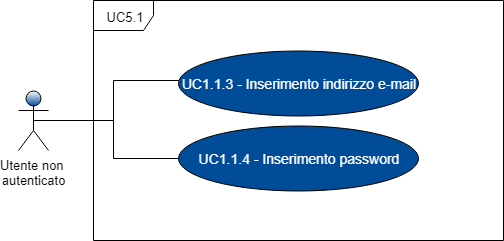
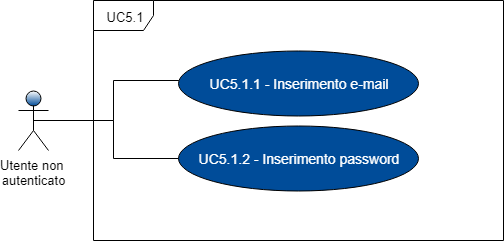
fix immagini e verificato UC11

Changed region(s): [[0.3571, 0.3195, 0.8333, 0.3776], [0.4762, 0.639, 0.506, 0.6971], [0.4167, 0.639, 0.4464, 0.6971]]

diff --git a/RR/Esterni/Analisi_dei_requisiti/res/sections/UC/UC11-Gestione-prenotazione.tex b/RR/Esterni/Analisi_dei_requisiti/res/sections/UC/UC11-Gestione-prenotazione.tex
@@ -2,21 +2,25 @@
 \begin{itemize}
 	\item \textbf{Attori Primari}: utente autenticato;
 	\item \textbf{Descrizione}: agli utenti autenticati è resa disponibile una maschera che presenta la lista di tutte le sue prenotazioni ancora attive, dalla quale l'utente può scegliere di effettuare operazioni di gestione su ognuna di esse;
-	Per ogni prenotazione presente nella lista saranno visualizzati dei dettagli riassuntivi, che sono:
+	per ogni prenotazione presente nella lista saranno visualizzati dei dettagli riassuntivi, che sono:
 	\begin{itemize}
 		\item Data;
 		\item Fascia oraria;
-		\item Veicolo prenotato;
+		\item Veicolo prenotato.
 	\end{itemize}
 	\item \textbf{Scenario principale}: l'utente effettua operazioni di gestione di una prenotazione. Esse comprendono:
 	\begin{itemize}
-		\item la visualizzazione dei dettagli di una prenotazione [UC11.1];
-		\item la cancellazione di una prenotazione [UC11.2].
+		\item Visualizzazione dettagli prenotazione [UC11.1];
+		\item Cancellazione prenotazione [UC11.2].
 	\end{itemize}
 	\item \textbf{Precondizione}: il sistema carica correttamente la lista di prenotazione effettuate attualmente attive;
 	\item \textbf{Post-condizione}: l'utente ha visualizzato le sue prenotazioni correnti ed è riuscito ad effettuare eventuali modifiche.
 \end{itemize} 
-
+\begin{figure}[h]
+	\includegraphics[width=10cm]{res/images/UC11Prenotazione.png}
+	\centering
+	\caption{UC11 - Gestione prenotazione}
+\end{figure}
  \subsubsection{UC11.1 - Visualizzazione dettagli prenotazione}
 \begin{itemize}
 	\item \textbf{Attori Primari}: utente autenticato;
@@ -48,11 +52,11 @@
 \end{itemize}
 
 \end{comment}
-\subsubsection{UC11.2 - Cancellazione di una prenotazione}
+\subsubsection{UC11.2 - Cancellazione prenotazione}
 \begin{itemize}
 	\item \textbf{Attori Primari}: utente autenticato;
 	\item \textbf{Descrizione}: l'utente cancella la prenotazione selezionata;
 	\item \textbf{Scenario principale}: l'utente si trova all'interno della pagina di visualizzazione dei dettagli della prenotazione precedentemente selezionata. Attraverso l'apposito pulsante l'utente chiederà la cancellazione della prenotazione;
-	\item \textbf{Precondizione}: l'utente visualizza correttamente la prenotazione che intende cancellare
+	\item \textbf{Precondizione}: l'utente visualizza correttamente la prenotazione che intende cancellare;
 	\item \textbf{Post-condizione}: l'utente ha annullato correttamente la prenotazione selezionata.
 \end{itemize}

diff --git a/RR/Esterni/Analisi_dei_requisiti/res/sections/UC/UC10-Gestione-veicoli.tex b/RR/Esterni/Analisi_dei_requisiti/res/sections/UC/UC10-Gestione-veicoli.tex
@@ -1,6 +1,6 @@
  \subsubsection{UC10 - Gestione veicoli}
   \begin{figure}[H]
- 	\includegraphics[width=9cm]{res/images/UC10Gestioneveicolo.png}
+ 	\includegraphics[width=10cm]{res/images/UC10Gestioneveicolo.png}
  	\centering
  	\caption{UC10 - Gestione Veicoli}
  \end{figure}
@@ -31,7 +31,7 @@
  	\item \textbf{Postcondizione}: il nuovo veicolo viene aggiunto ai veicoli posseduti.
  \end{itemize}
 \begin{figure}[H]
-	\includegraphics[width=9cm]{res/images/UC10-1Aggiungiveicolo.png}
+	\includegraphics[width=10cm]{res/images/UC10-1Aggiungiveicolo.png}
 	\centering
 	\caption{UC10.1 - Aggiunta veicolo}
 \end{figure}
